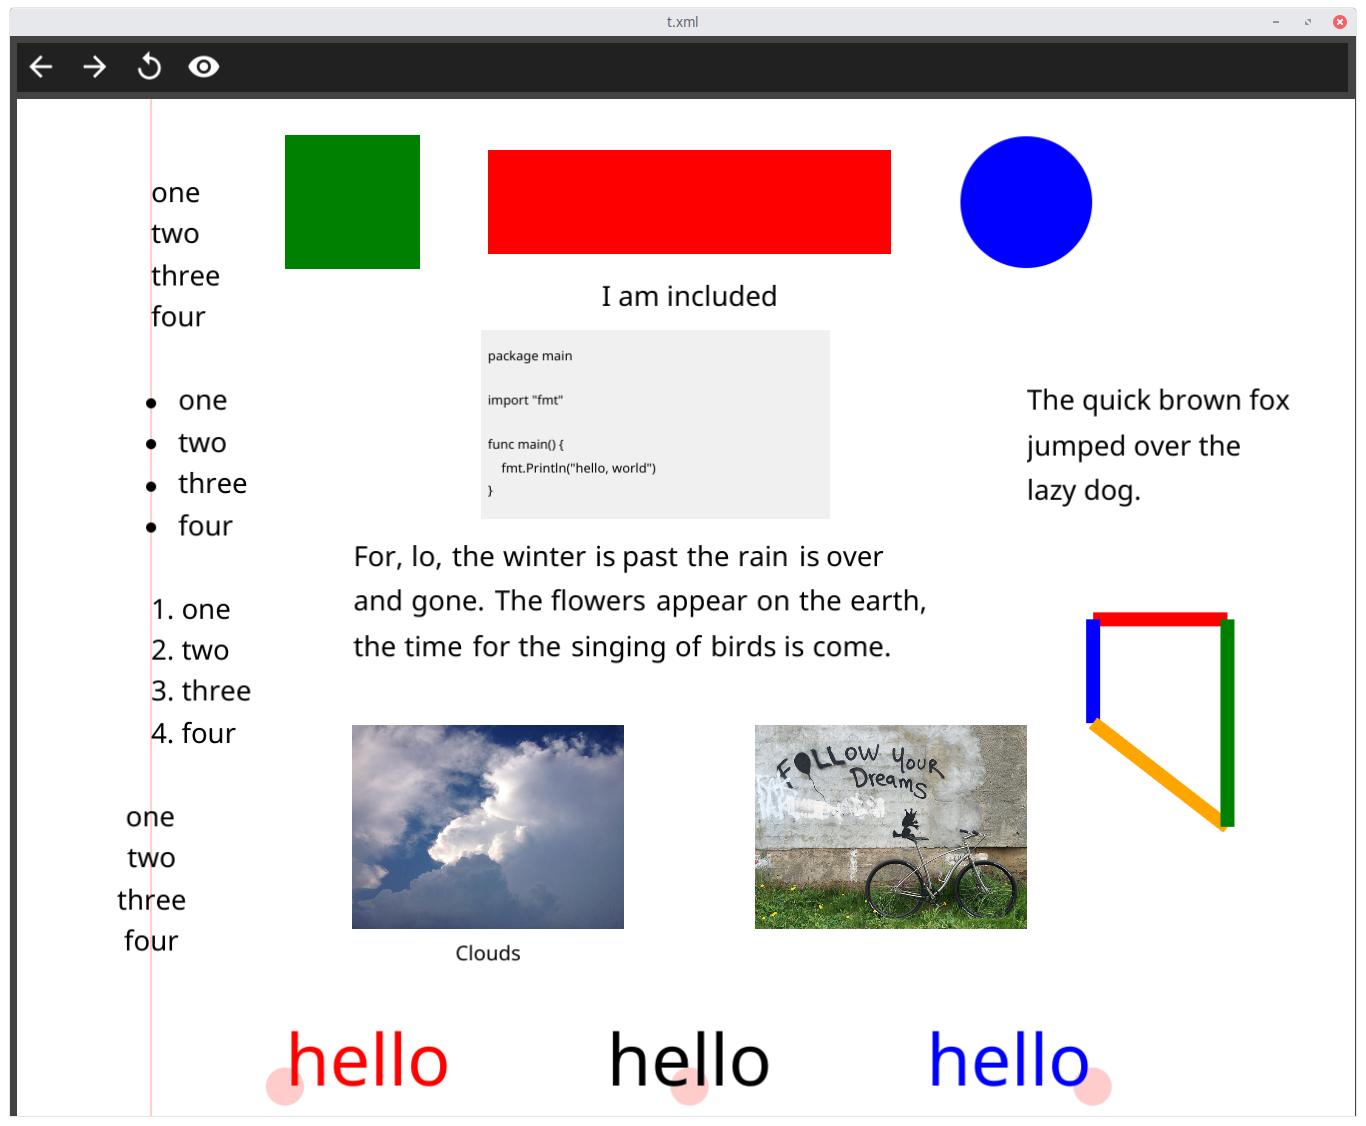
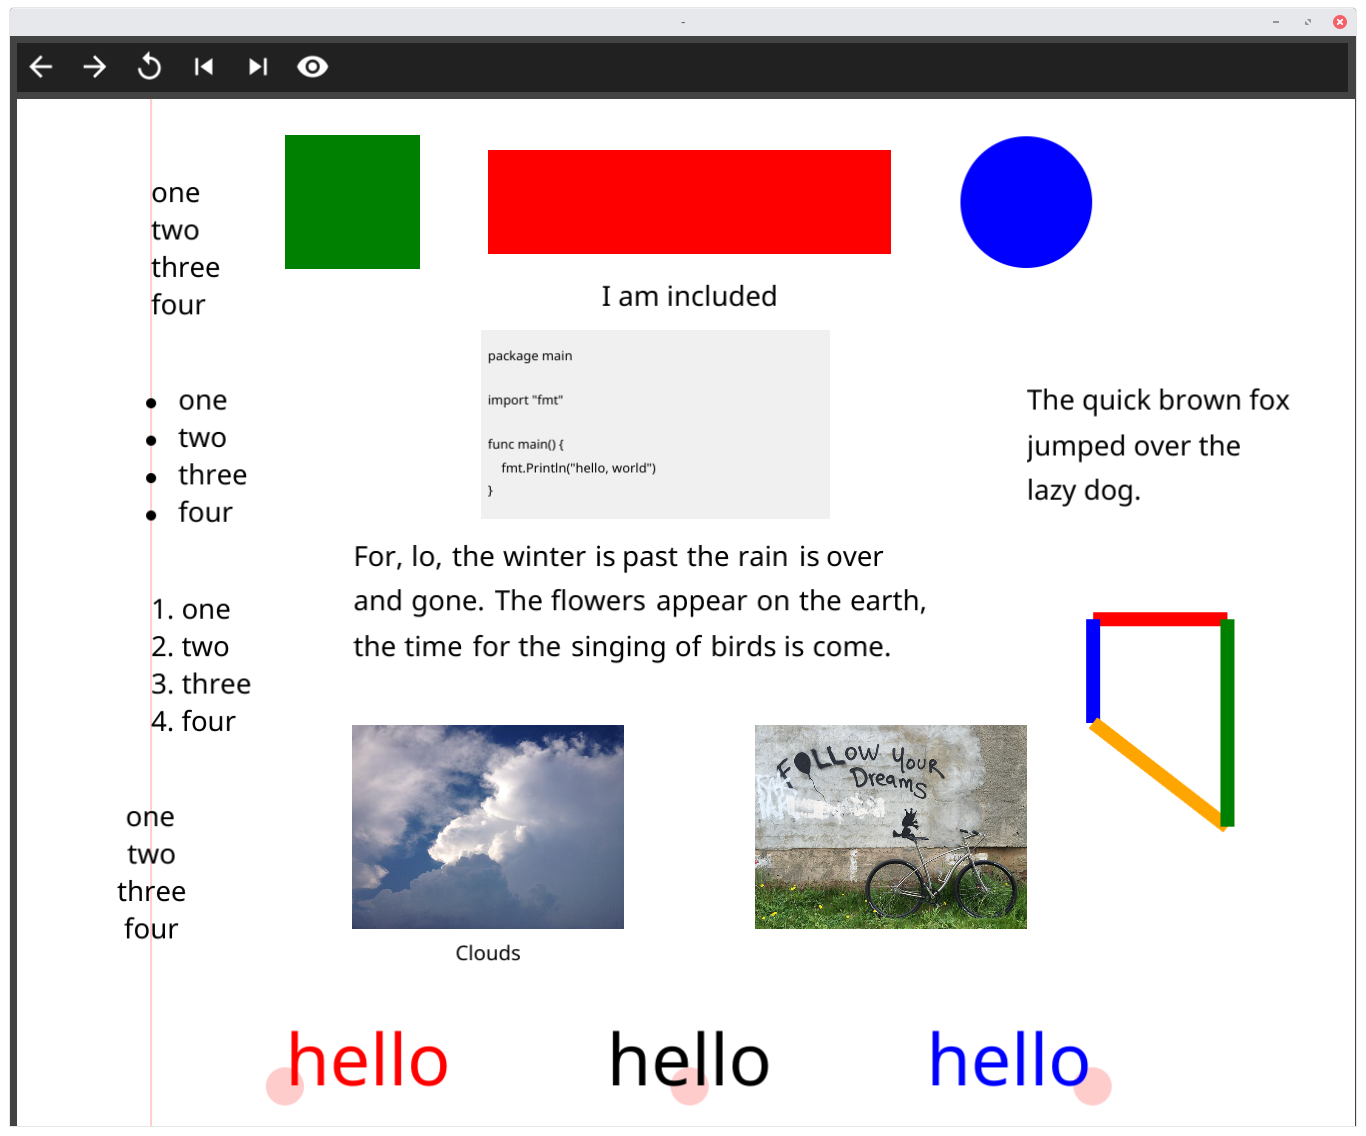
fcdeck: update README

diff --git a/cmd/fcdeck/README.md b/cmd/fcdeck/README.md
@@ -4,16 +4,23 @@
 
 ## Options
 
+Toolbar options:
+
+Back, Forward, Refresh, First Slide, Last Slide, Toggle Grid
+
 ```
 fcdeck [options] file
 
 Options:
-  -grid float
-        grid percent (default 10)
+
+ -grid float
+    	grid percent (default 5)
+  -page int
+    	initial page (default 1)
   -pagesize string
-        pagesize: w,h, or one of: Letter, Legal, Tabloid, A3, A4, A5, ArchA, 4R, Index, Widescreen (default "Letter")
+    	pagesize: w,h, or one of: Letter, Legal, Tabloid, A3, A4, A5, ArchA, 4R, Index, Widescreen (default "Letter")
   -sans string
-        default font
+    	default font
   -title string
-        slide title
+    	slide title
 ```
